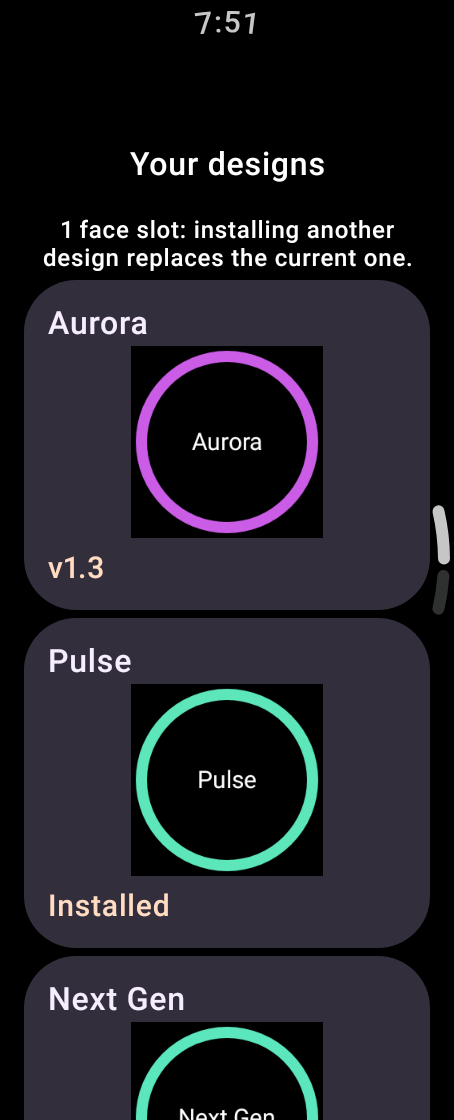
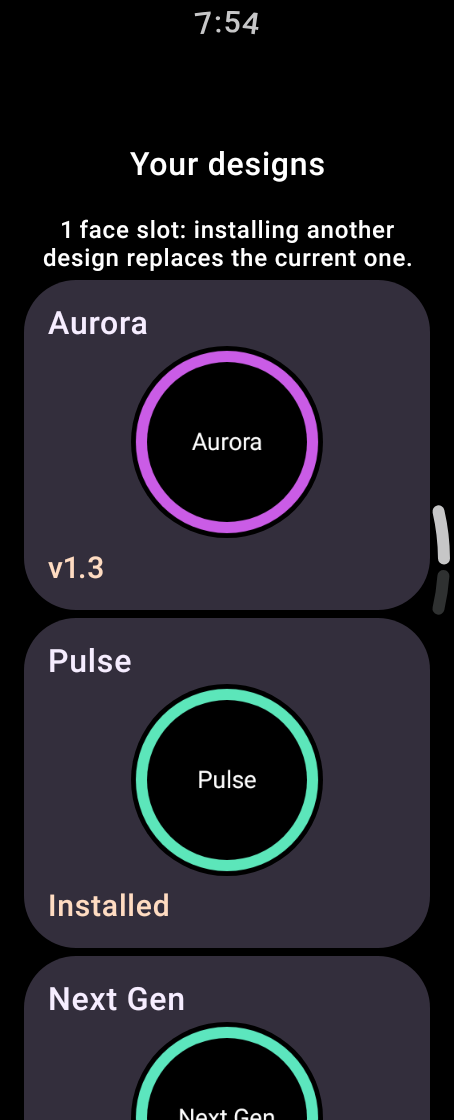
chore(push-app): crop design previews to a circle
Watch faces are round, so the list and detail screens show each preview through a circle crop instead of the square render's corners.

diff --git a/push-app/src/main/kotlin/ee/schimke/watchface/push/ui/Screens.kt b/push-app/src/main/kotlin/ee/schimke/watchface/push/ui/Screens.kt
@@ -2,11 +2,13 @@ package ee.schimke.watchface.push.ui
 
 import androidx.compose.foundation.Canvas
 import androidx.compose.foundation.Image
+import androidx.compose.foundation.layout.Box
 import androidx.compose.foundation.layout.Spacer
 import androidx.compose.foundation.layout.aspectRatio
 import androidx.compose.foundation.layout.fillMaxWidth
 import androidx.compose.foundation.layout.height
 import androidx.compose.foundation.layout.size
+import androidx.compose.foundation.shape.CircleShape
 import androidx.compose.foundation.shape.RoundedCornerShape
 import androidx.compose.runtime.Composable
 import androidx.compose.runtime.compositionLocalOf
@@ -14,6 +16,7 @@ import androidx.compose.runtime.getValue
 import androidx.compose.runtime.mutableStateOf
 import androidx.compose.runtime.remember
 import androidx.compose.runtime.setValue
+import androidx.compose.ui.Alignment
 import androidx.compose.ui.Modifier
 import androidx.compose.ui.draw.clip
 import androidx.compose.ui.geometry.Offset
@@ -190,7 +193,9 @@ fun DesignListScreen(
               title = { Text(design.title) },
               subtitle = { Text(statusLabel(design, state.push, deviceWff)) },
             ) {
-              PreviewImage(design, Modifier.fillMaxWidth().height(96.dp))
+              Box(Modifier.fillMaxWidth(), contentAlignment = Alignment.Center) {
+                PreviewImage(design, Modifier.size(96.dp))
+              }
             }
           }
         }
@@ -337,17 +342,22 @@ fun DesignDetailScreen(
  */
 val LocalPreviewPainter = compositionLocalOf<((Design) -> Painter)?> { null }
 
+/**
+ * A design's preview, cropped to a circle: the faces are round, and the square render's corners are
+ * not part of what the watch shows.
+ */
 @Composable
 fun PreviewImage(design: Design, modifier: Modifier = Modifier) {
+  val shaped = modifier.aspectRatio(1f).clip(CircleShape)
   val override = LocalPreviewPainter.current
   if (override != null) {
-    Image(override(design), "${design.title} preview", modifier, contentScale = ContentScale.Fit)
+    Image(override(design), "${design.title} preview", shaped, contentScale = ContentScale.Crop)
   } else {
     AsyncImage(
       model = design.previewUrl,
       contentDescription = "${design.title} preview",
-      contentScale = ContentScale.Fit,
-      modifier = modifier,
+      contentScale = ContentScale.Crop,
+      modifier = shaped,
     )
   }
 }
